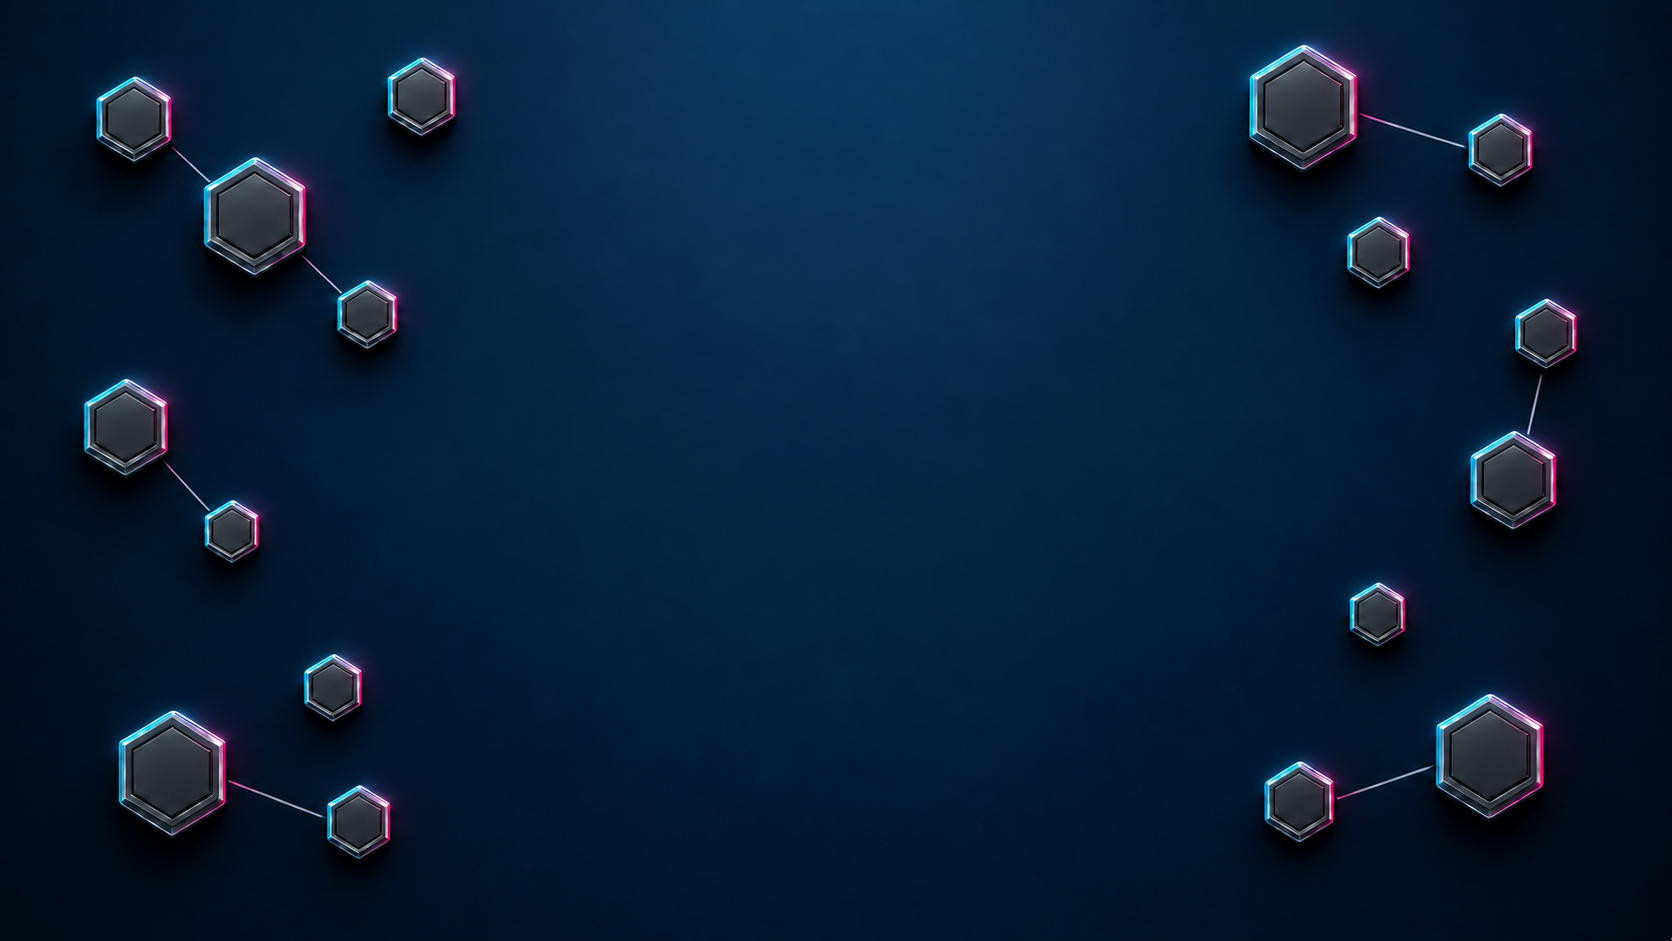
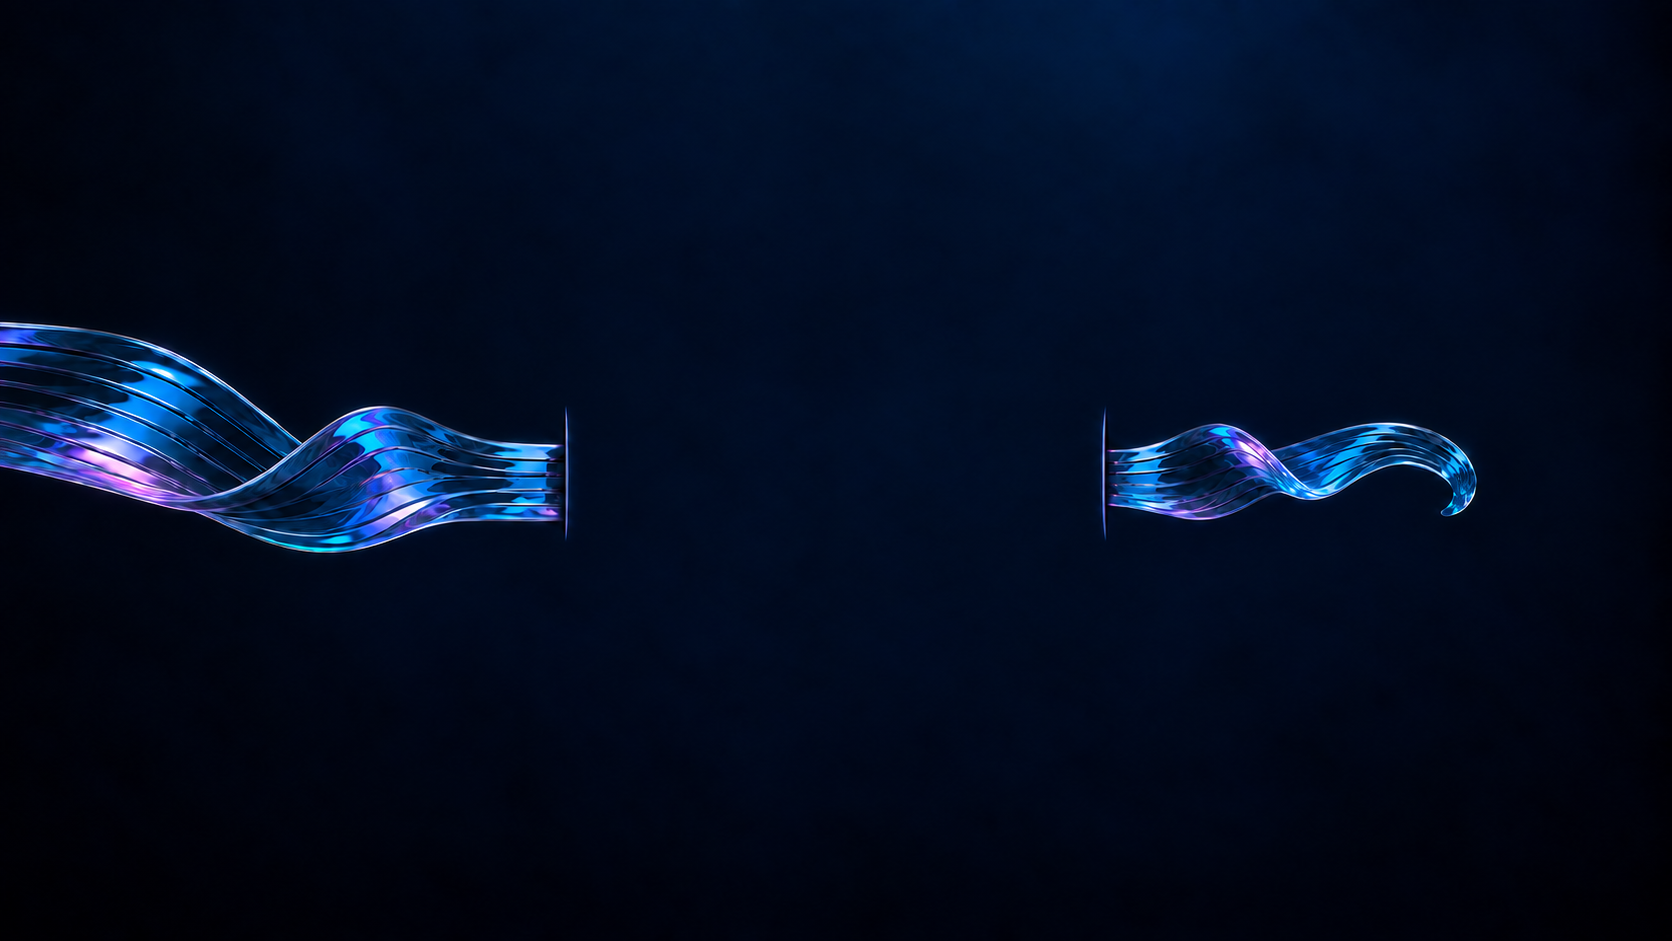
feat(branding): introduce glass ribbon artwork for Abyss and Ghost

diff --git a/docs/build/BUILD-EDITIONS.md b/docs/build/BUILD-EDITIONS.md
@@ -16,6 +16,8 @@ Abyss is the default dark navy edition; Ghost is the light pearl-white edition. 
 
 Preparation copies the shared configuration and selected edition into `build/<edition>/config/`. Each ISO includes only its selected PH4NTXM theme and backgrounds; both editions remain in the repository. Shared icons, cursors and distribution fallback themes are retained.
 
+Boot menu entries remain in the shared configuration. Edition-specific GRUB and Syslinux appearance files belong under `editions/<name>/config/bootloaders/`.
+
 Keep source, artwork, build tools and required tests in Git. Generated build trees, package caches and exported images are excluded.
 
 ## [ BUILD ]
@@ -33,9 +35,9 @@ Successful builds export `ph4ntxm-<edition>-amd64.hybrid.iso`, manifests and `SH
 
 ## [ APPEARANCE ]
 
-Abyss pairs deep navy surfaces and pale text with anthracite hexagons. Ghost pairs pearl-white surfaces and dark text with light hexagons. Both use cyan and magenta accents across GTK 2, GTK 3, XFWM, LightDM, the panel and PH4NTXM applications.
+Abyss pairs deep navy surfaces and pale text with blue glass ribbons. Ghost pairs pearl-white surfaces and dark text with clear glass ribbons. Both use cyan and magenta accents across GTK 2, GTK 3, XFWM, LightDM, the panel and PH4NTXM applications.
 
-Each edition supplies matching desktop, login and bootloader artwork. Both keep Lyra-blue-dark icons, LyraB cursors and terminal backgrounds at 85% opacity. Selecting another XFCE theme manually does not switch the complete edition; build the desired edition to apply all appearance settings together.
+Each edition supplies matching desktop, login and bootloader artwork. Both keep Lyra-blue-dark (modified for PH4NTXM) and custom icons, LyraB cursors and terminal backgrounds at 85% opacity. Selecting another XFCE theme manually does not switch the complete edition; build the desired edition to apply all appearance settings together.
 
 ## [ VALIDATION ]
 
